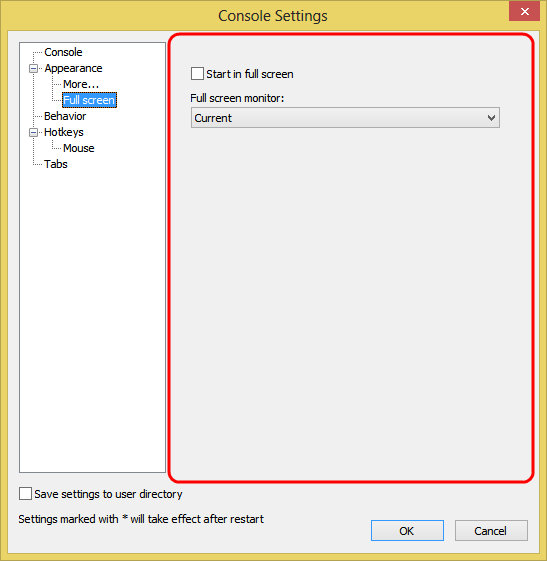
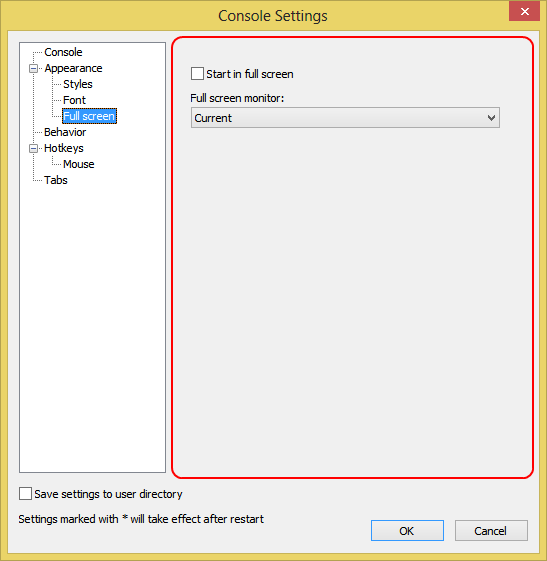
update documentation

Changed region(s): [[0.2797, 0.0303, 0.9945, 0.8788], [0.0311, 0.1212, 0.2176, 0.3333]]

diff --git a/help/html/settings_appearance_font.html b/help/html/settings_appearance_font.html
@@ -1,0 +1,80 @@
+<!DOCTYPE html PUBLIC "-//W3C//DTD XHTML 1.0 Strict//EN" "http://www.w3.org/TR/xhtml1/DTD/xhtml1-strict.dtd">
+<html xmlns="http://www.w3.org/1999/xhtml" xml:lang="en">
+
+<head>
+	<title>Settings - Appearance (Font)</title>
+	<meta http-equiv="content-type" content='text/html; charset=utf-8' />
+	<link rel="stylesheet" type="text/css" href="../styles/help.css" />
+</head>
+
+<body>
+	<h1>Settings - Appearance (Font)</h1>
+
+	<p>
+	<img src="../images/settings_appearance_font.png" />
+	</p>
+
+	<h2>Font</h2>
+
+	<p class="block-row-name">Name</p>
+	<p class="block-row-description">
+		Specifies Console font name.
+	</p>
+	<br />
+
+	<p class="block-row-name">Size</p>
+	<p class="block-row-description">
+		Specifies font size.
+	</p>
+	<br />
+
+	<p class="block-row-name">Bold</p>
+	<p class="block-row-description">
+		If checked, Console font will be bold.
+	</p>
+	<br />
+
+	<p class="block-row-name">Italic</p>
+	<p class="block-row-description">
+		If checked, Console font will be italic.
+	</p>
+	<br />
+
+	<p class="block-row-name">Extra width</p>
+	<p class="block-row-description">
+		Specifies extra width, in pixels, added to the char width.
+	</p>
+	<br />
+
+	<p class="block-row-name">Smoothing</p>
+	<p class="block-row-description">
+		Specifies font smoothing.
+	</p>
+	<br />
+
+	<p class="block-row-name">Custom color</p>
+	<p class="block-row-description">
+		Allows you to specify custom font color.
+		<br />
+		<b>Note:</b> If on, all text will be shown in the selected color. 
+		Shell's syntax coloring will be ignored.
+	</p>
+	<br />
+
+	<p class="block-row-name">Display intensified colors in bold</p>
+	<p class="block-row-description">
+		If <i>Bold</i> is unchecked: chars with intensified foregroung colors (0x8 to 0xF) are displayed using bold font.<br />
+		If <i>Bold</i> is checked: chars with intensified foregroung colors (0x8 to 0xF) are displayed using non bold font.
+	</p>
+	<br />
+
+	<p class="block-row-name">Display intensified colors in italic</p>
+	<p class="block-row-description">
+		If <i>Italic</i> is unchecked: chars with intensified foregroung colors (0x8 to 0xF) are displayed using italic font.<br />
+		If <i>Italic</i> is checked: chars with intensified foregroung colors (0x8 to 0xF) are displayed using non italic font.
+	</p>
+	<br />
+
+</body>
+
+</html>

diff --git a/help/html/settings_behavior.html b/help/html/settings_behavior.html
@@ -86,21 +86,6 @@
 	</p>
 	<br />
 
-	<h2>Page scrolling</h2>
-
-	<p class="block-row-name">Scroll one screen<br />Scroll X rows</p>
-	<p class="block-row-description">
-		Allows you to specify how much Console will scroll when clicking 
-		scrollbars.
-		<br />
-		<i>Scroll one screen</i> will scroll one page (current row or column 
-		count)
-		<br />
-		<i>Scroll X rows</i> will scroll Console window for the specified 
-		number of rows.
-	</p>
-	<br />
-
 	<h2>Inactive tab activity flash</h2>
 
 	<p class="block-row-name">Flash inactive tabs</p>
@@ -117,6 +102,21 @@
 	<p class="block-row-description">
 		If checked, the inactive tab where some activities have been detected in the corresponding console will stay highlighted
 		even if the activities have stopped.
+	</p>
+	<br />
+
+	<h2>Page scrolling</h2>
+
+	<p class="block-row-name">Scroll one screen<br />Scroll X rows</p>
+	<p class="block-row-description">
+		Allows you to specify how much Console will scroll when clicking 
+		scrollbars.
+		<br />
+		<i>Scroll one screen</i> will scroll one page (current row or column 
+		count)
+		<br />
+		<i>Scroll X rows</i> will scroll Console window for the specified 
+		number of rows.
 	</p>
 	<br />
 

diff --git a/help/html/settings_appearance.html b/help/html/settings_appearance.html
@@ -83,42 +83,6 @@
 	<br />
 
 
-	<h2>Font</h2>
-
-	<p class="block-row-name">Name</p>
-	<p class="block-row-description">
-		Specifies Console font name.
-	</p>
-	<br />
-
-	<p class="block-row-name">Size</p>
-	<p class="block-row-description">
-		Specifies font size.
-	</p>
-	<br />
-
-	<p class="block-row-name">Bold</p>
-	<p class="block-row-description">
-		If checked, Console font will be bold.
-	</p>
-	<br />
-
-	<p class="block-row-name">Italic</p>
-	<p class="block-row-description">
-		If checked, Console font will be italic.
-	</p>
-	<br />
-
-	<p class="block-row-name">Custom color</p>
-	<p class="block-row-description">
-		Allows you to specify custom font color.
-		<br />
-		<b>Note:</b> If on, all text will be shown in the selected color. 
-		Shell's syntax coloring will be ignored.
-	</p>
-	<br />
-
-
 	<h2>Position</h2>
 
 	<p class="block-row-name">Initial position</p>

diff --git a/help/html/settings_appearance_styles.html b/help/html/settings_appearance_styles.html
@@ -2,16 +2,16 @@
 <html xmlns="http://www.w3.org/1999/xhtml" xml:lang="en">
 
 <head>
-	<title>Settings - Appearance (more)</title>
+	<title>Settings - Appearance (Styles)</title>
 	<meta http-equiv="content-type" content='text/html; charset=utf-8' />
 	<link rel="stylesheet" type="text/css" href="../styles/help.css" />
 </head>
 
 <body>
-	<h1>Settings - Appearance (more)</h1>
+	<h1>Settings - Appearance (Styles)</h1>
 
 	<p>
-	<img src="../images/settings_appearance_more.png" />
+	<img src="../images/settings_appearance_styles.png" />
 	</p>
 
 	<h2>Controls</h2>

diff --git a/help/html/settings_tabs_main.html b/help/html/settings_tabs_main.html
@@ -50,6 +50,18 @@
 	</p>
 	<br />
 
+	<p class="block-row-name">Run as current user</p>
+	<p class="block-row-description">
+		Uses current user credentials.
+	</p>
+	<br />
+
+	<p class="block-row-name">Administrator</p>
+	<p class="block-row-description">
+		If checked, the shell will be launched with elevated privileges.
+	</p>
+	<br />
+
 	<p class="block-row-name">Run as user</p>
 	<p class="block-row-description">
 		If checked, a dialog, asking for another user's credentials will be displayed.

diff --git a/help/html/settings_console.html b/help/html/settings_console.html
@@ -76,12 +76,6 @@
 	</p>
 	<br />
 
-	<p class="block-row-name">Save on exit</p>
-	<p class="block-row-description">
-		If checked, Console's window size will be saved on exit.
-	</p>
-	<br />
-
 	<h2>Buffer size</h2>
 
 	<p class="block-row-name">Rows</p>
